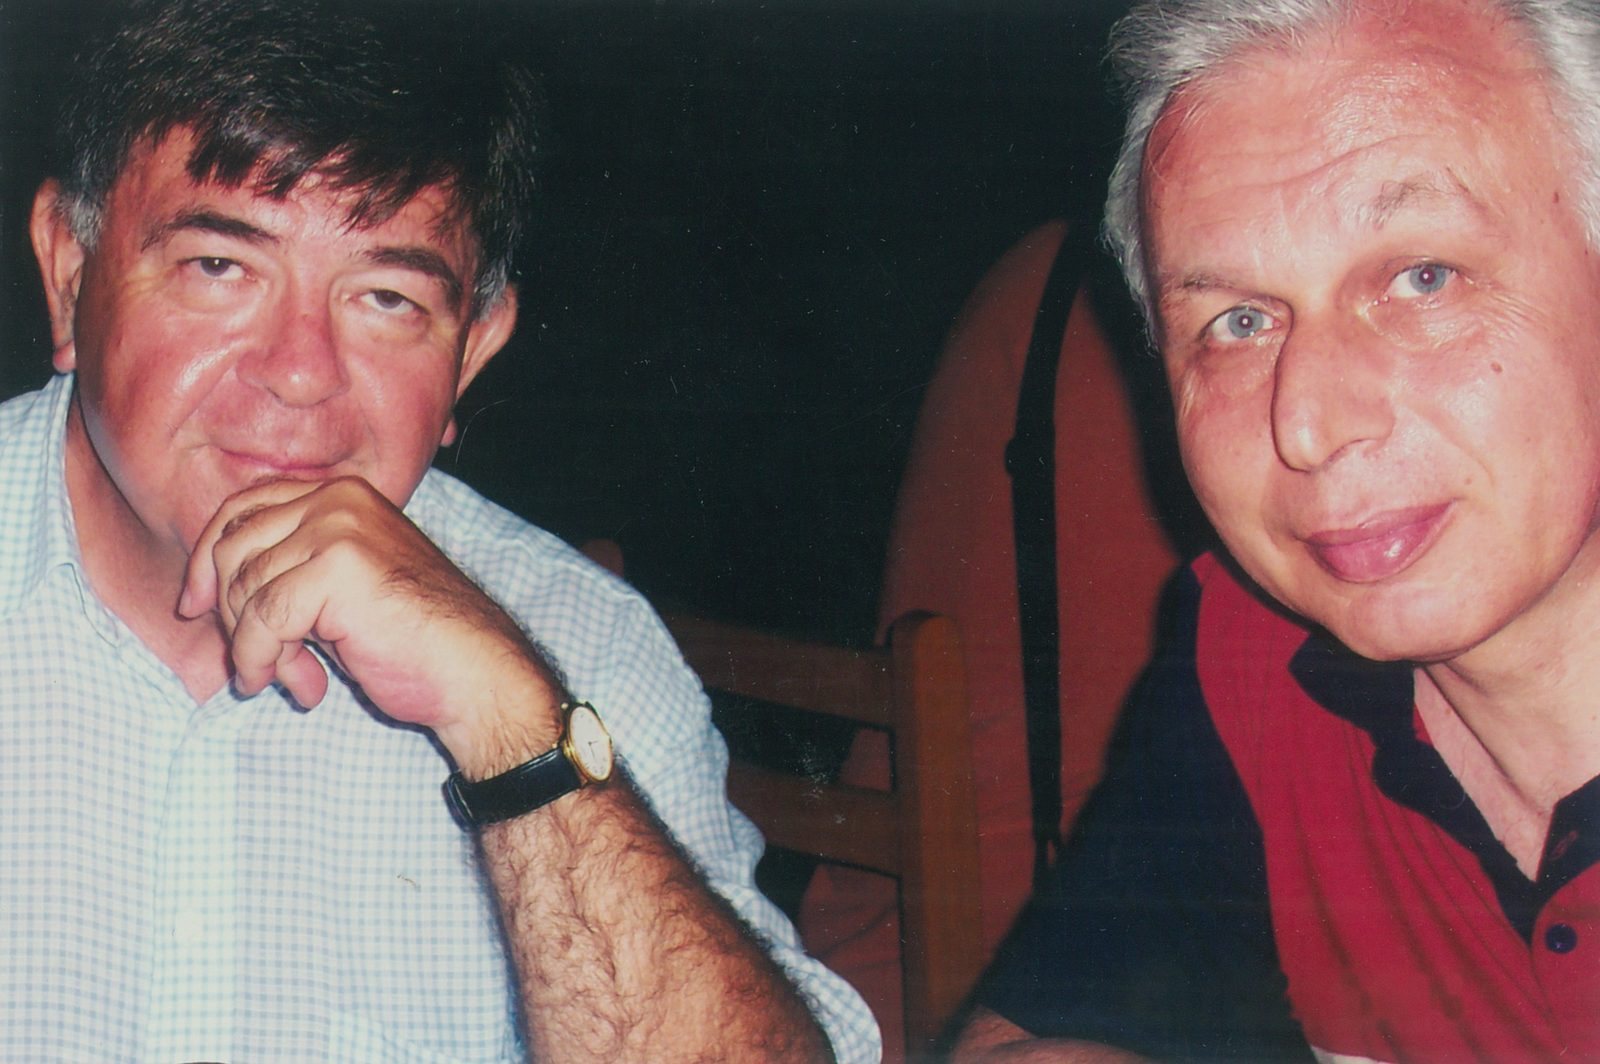
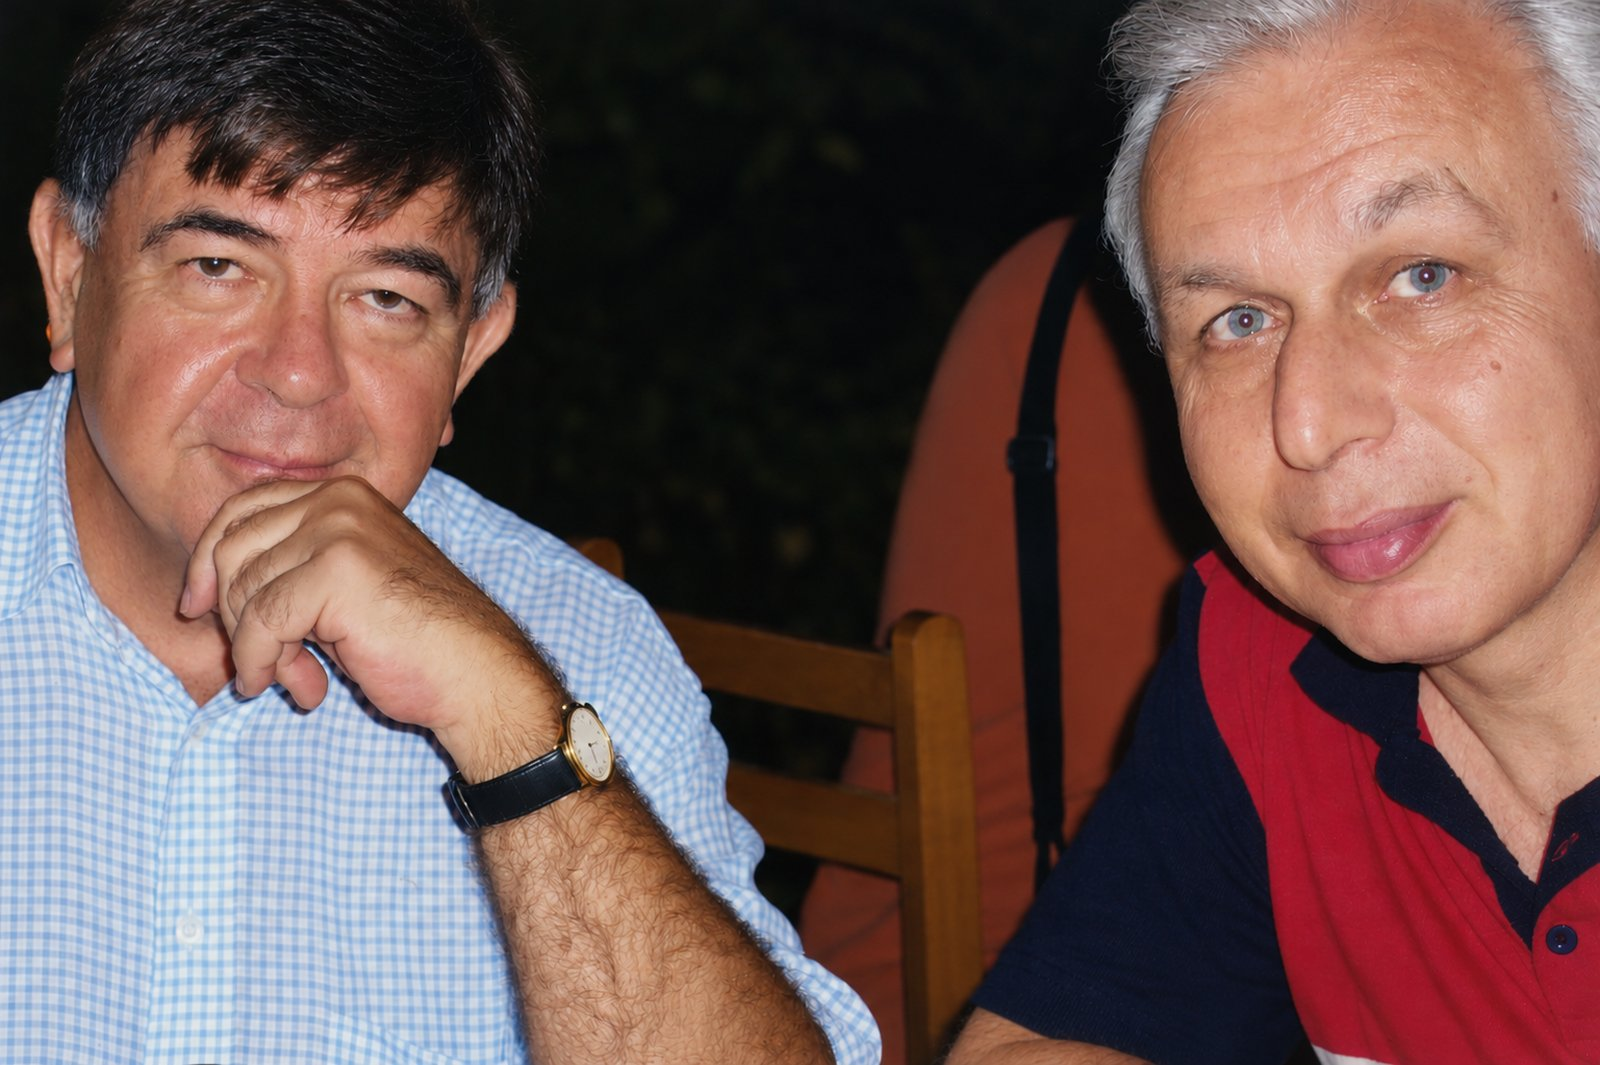
Use the owner's restored version of photo 026

diff --git a/src/photoStory.ts b/src/photoStory.ts
@@ -11,10 +11,10 @@
  *  (some phone photos carried location data). `width`/`height` are the
  *  1600 version's, so the page reserves each photo's space before it loads.
  *
- *  026 is the one retouched image: the camera's yellow date imprint
- *  ("26/02/2003") in its lower right was painted out at the owner's request
- *  on 2026-10-13 (OpenCV inpainting over the imprint's pixels only, with the
- *  print's grain restored); the scan in Foto/taramalar is untouched.
+ *  026 is made from Foto/taramalar/026.png, a restored version without the
+ *  camera's date imprint that the owner supplied on 2026-10-18 to replace
+ *  the scan (026.jpg); its 1600 version is upscaled slightly from the PNG's
+ *  1537px width.
  *
  *  In captions, *x* marks a publication name in italics and **x** the owner's
  *  own bold, as in his document. */
@@ -165,7 +165,7 @@ export const photoStoryEntries: PhotoStoryEntry[] = [
       '*Cumhuriyet\'*ten yakın arkadaşım rahmetli Ufuk Güldemir genel yayın müdürü atanınca sayfayı Nilüfer\'le birlikte *Milliyet*\'e taşıdık (1994-2001). Güldemir\'den sonraki genel yayın müdürü Derya Sazak\'la birlikte çekilen fotoğrafta, meslektaşlar (ayakta) Osman Ulagay, Ahmet Tan, Duygu Asena, Edip Öymen, Yavuz Baydar, (oturanlar) Meral Tamer, ben, Sazak ve Tayfun Ertan.',
   },
   {
-    photos: [{ id: '026', width: 1600, height: 1064 }],
+    photos: [{ id: '026', width: 1600, height: 1065 }],
     caption:
       'İsveç\'ten yurda dönüş sonrasında en yakın arkadaşım ve fikirdaşım, doktora yaptığı Fransa\'dan dönen (o da önce devrimci sonra sosyal demokrat) değerli iktisatçımız Prof. Dr. Seyfettin Gürsel oldu. Onunla *DSP-SHP: Nerede Birleşiyor, Nerede ayrılıyorlar* (AFA, 1986) başlıklı bir kitapçık yazdığımız gibi uzun yıllar Bahçeşehir Üniversitesi\'nde birlikte çalıştık.',
   },
